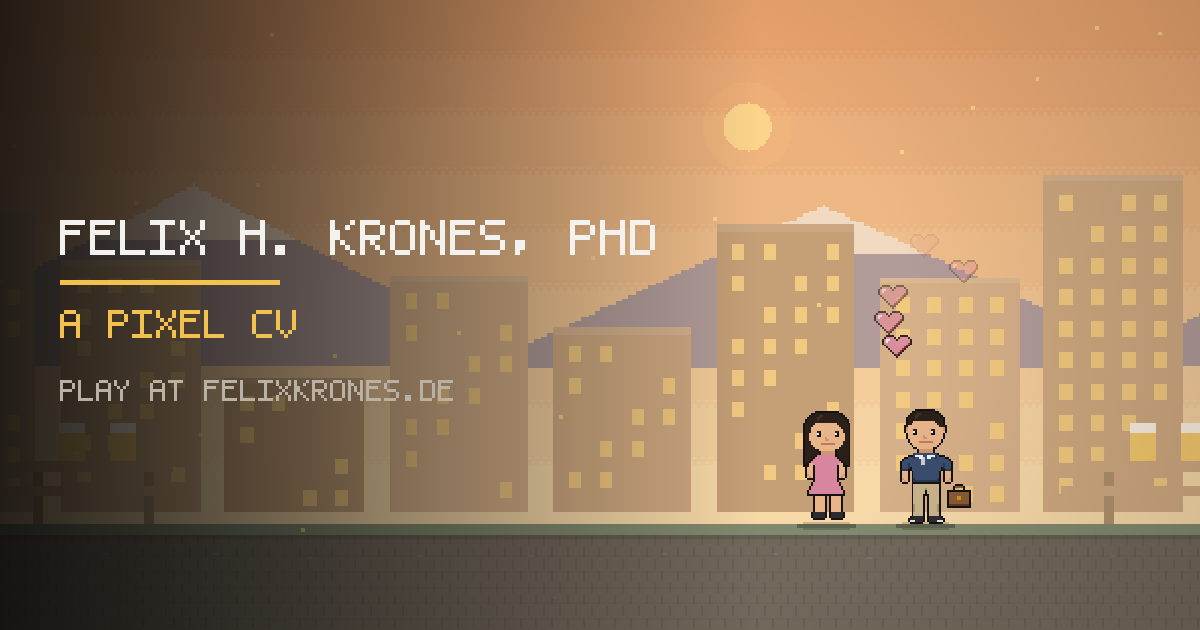
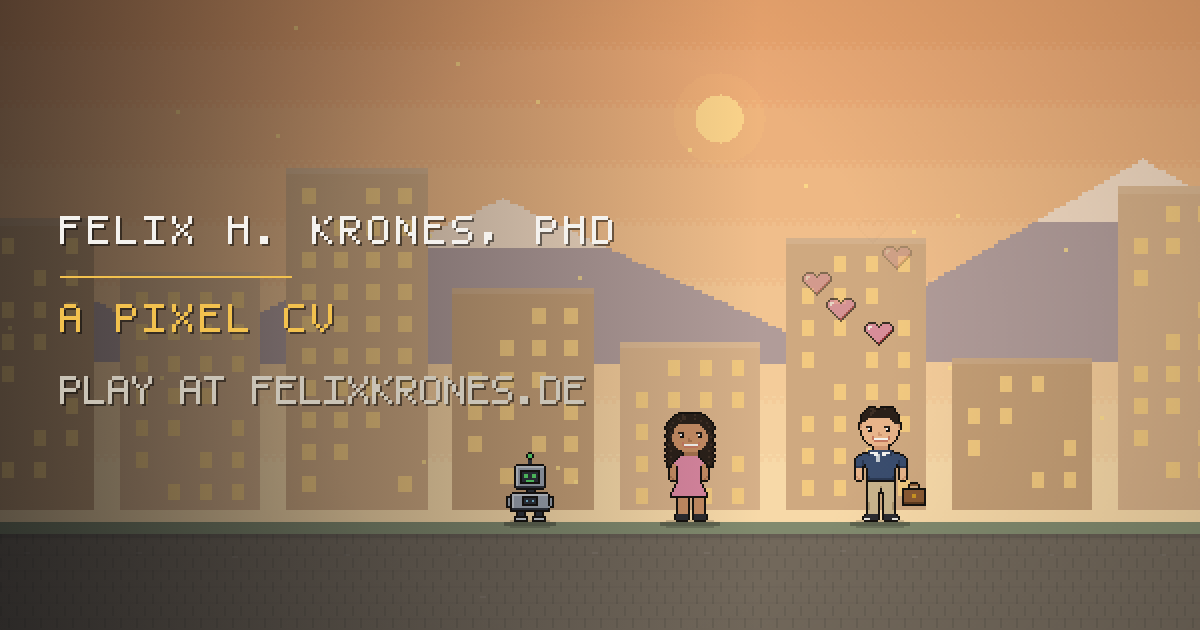
v32: Mastering AI robot in Karlsruhe (jump on it, then it follows as a pet), volunteering as own overview category, faces closer to the photos, new link preview

diff --git a/index.html b/index.html
@@ -20,7 +20,7 @@
 <title>Felix H. Krones, PhD</title>
 <style>
   :root{ --ink:#f0ece4; --dim:#8b8578; --rule:#2a2620; --ground:#12100d; --panel:#1a1713; --accent:#f2c14e;
-         --life:#d2574f; --edu:#f2c14e; --work:#9aa6b4; }
+         --life:#d2574f; --edu:#f2c14e; --work:#9aa6b4; --vol:#e0708f; }
   html,body{ height:100%; }
   body{ margin:0; background:var(--ground); color:var(--ink);
     font-family:"IBM Plex Mono",ui-monospace,SFMono-Regular,Menlo,Consolas,monospace; }
@@ -66,7 +66,7 @@
   #ov .out.locked p{ color:#4a463f; }
   #ov .out .chips{ display:flex; flex-wrap:wrap; gap:6px; }
   #ov .out .chips span{ font-size:11px; letter-spacing:.08em; text-transform:uppercase; color:#f2c14e; border:1px solid #5a4a22; padding:3px 8px; border-radius:3px; }
-  #ov th.life{ background:var(--life);} #ov th.edu{ background:var(--edu);} #ov th.work{ background:var(--work);}
+  #ov th.life{ background:var(--life);} #ov th.edu{ background:var(--edu);} #ov th.work{ background:var(--work);} #ov th.vol{ background:var(--vol);}
   #ov td{ padding:2px 5px; border-bottom:1px solid #1f1c17; vertical-align:middle; }
   #ov td.ic{ width:18px; } #ov td.ic canvas{ display:block; image-rendering:pixelated; width:14px; height:14px; }
   #ov td.yr{ width:78px; color:#b9b2a4; font-variant-numeric:tabular-nums; }
@@ -223,8 +223,8 @@ function draw(grid, ox, oy, flip){
 
 /* ---- Felix: 32 wide x 58 tall, outlined and shaded. Origin = top-left; feet on row 57. ---- */
 const HEAD = [
-  '...........NNNNNNNNNN...........',
-  '.........NNKKKKKKKKKKNN.........',
+  '..........NNNN..NNNNNNN.........',
+  '.........NKkkKNNKKkKKKKN........',
   '........NKKKkkKKKKKKKKKN........',
   '.......NKKKkkKKKKKKKKKKKN.......',
   '......NKKKKkKKKKKKKKKKKKKN......',
@@ -233,14 +233,14 @@ const HEAD = [
   '......NKKSSSSSSSSSSSSSKKKN......',
   '.....NKSSSSSSSSSSSSSSSSKKKN.....',
   '.....NDSSSSSSSSSSSSSSSSSSDN.....',
-  '.....NDSSSKKSSSSSSSKKSSSSDN.....',
+  '.....NDSSKKKSSSSSSKKKSSSSDN.....',
   '.....NSSSSWESSSSSSSWESSSSSN.....',
   '......NSSSEESSSSSSSEESSSSN......',
   '......NSSSSSSSSDSSSSSSSSSN......',
   '......NSSSSSSSSDDSSSSSSSSN......',
-  '.......NSSSSSSSSSSSSSSSSN.......',
-  '.......NSSSSSMMMMMMMSSSSN.......',
-  '........NSSSSSSSSSSSSSSN........',
+  '.......NSSSSMSSSSSSSMSSSN.......',
+  '.......NSSSSMWWWWWWWMSSSN.......',
+  '........NSSSSMMMMMMMSSSN........',
   '.........NSSSSSSSSSSSSN.........',
   '..........NNSSSSSSSSNN..........',
   '............NDDDDDDDN...........',
@@ -306,37 +306,38 @@ const LEGS_M = { STAND:pick(LEGS_STAND,L_M), L:pick(LEGS_L,L_M), R:pick(LEGS_R,L
 const LEGS_S = { STAND:pick(LEGS_STAND,L_S), L:pick(LEGS_L,L_S), R:pick(LEGS_R,L_S), JUMP:pick(LEGS_JUMP,L_S) };
 const SPRH = [58, 22+T_M.length+L_M.length, 22+T_S.length+L_S.length];   // adult 58, medium 44, small 38
 const PARTNER_H = 55;
+const P_SKIN = '#c58c63', P_SKIN_D = '#a5714d';   // her skin, a warm brown
 
 /* ---- Partner: long dark wavy hair, dress ---- */
 const P_HEAD = [
   '..........NNNNNNNNNNNN..........',
-  '........NNKKKKKKKKKKKKNN........',
+  '........NNKKkKKKKKkKKKNN........',
   '.......NKKKKkkKKKKKKKKKKN.......',
-  '......NKKKKkkKKKKKKKKKKKKN......',
-  '.....NKKKKKkKKKKKKKKKKKKKKN.....',
-  '.....NKKKKKKKKKKKKKKKKKKKKN.....',
+  '......NKKKkKkkKKKKkKKKKKKN......',
+  '.....NKKKKKkKKKKKKKKKkKKKKN.....',
+  '....NKKkKKKKKKKKKKKKKKKKkKKN....',
   '....NKKKKKSSSSSSSSSSSKKKKKKN....',
-  '....NKKKKSSSSSSSSSSSSSKKKKKN....',
-  '....NKKKSSSSSSSSSSSSSSSKKKKN....',
+  '...NKKkKKSSSSSSSSSSSSSKKKkKKN...',
+  '...NKKKKSSSSSSSSSSSSSSSKKKKKN...',
   '....NKKKSSSSSSSSSSSSSSSSKKKN....',
-  '....NKKKSSSKKSSSSSSSKKSSKKKN....',
-  '....NKKSSSSWESSSSSSSWESSSKKN....',
-  '....NKKSSSSEESSSSSSSEESSSKKN....',
+  '....NKkKSSKKKSSSSSSKKKSSKkKN....',
+  '...NKKKSSSSWESSSSSSSWESSSKKKN...',
+  '...NKKkSSSSEESSSSSSSEESSSKkKN...',
   '....NKKSSSSSSSSDSSSSSSSSSKKN....',
   '....NKKSSSSSSSSDDSSSSSSSSKKN....',
-  '....NKKKSSSSSSSSSSSSSSSSKKKN....',
-  '....NKKKSSSSSMMMMMMMSSSSKKKN....',
-  '....NKKKKSSSSSSSSSSSSSSKKKKN....',
-  '....NKKKKKSSSSSSSSSSSSKKKKKN....',
-  '....NKKKKKKNSSSSSSSSNKKKKKKN....',
+  '...NKKKKSSSSMSSSSSSSMSSSKKKKN...',
+  '...NKkKKSSSSMWWWWWWWMSSSKKkKN...',
+  '....NKKKKSSSSMMMMMMMSSSKKKKN....',
+  '...NKKKKKKSSSSSSSSSSSSKKKKKKN...',
+  '...NKKkKKKKNSSSSSSSSNKKKKkKKN...',
   '....NKKKKKKKNDDDDDDDNKKKKKKN....',
-  '....NKKKKKKKNDDDDDDDNKKKKKKN....'
+  '...NKKKKKKKKNDDDDDDDNKKKKKKKN...'
 ];
 const P_BODY = [
-  '....NKKKKKNqqqqqqqqqNKKKKKKN....',
+  '...NKKkKKKNqqqqqqqqqNKKKKkKKN...',
   '....NKKKKNqqqqqqqqqqqNKKKKKN....',
-  '....NKKKNqqqqqqqqqqqqqNKKKKN....',
-  '....NKKNqqqqqqqqqqqqqqqNKKKN....',
+  '...NKKKKNqqqqqqqqqqqqqNKKKKKN...',
+  '....NKkNqqqqqqqqqqqqqqqNKkKN....',
   '....NKNSSqqqqqqqqqqqqqSSNKKN....',
   '....NNNSSNqqqqqqqqqqqNSSNNNN....',
   '.....NSSSNqqqqqqqqqqqNSSSN......',
@@ -524,6 +525,43 @@ const WEAR = {
     ] },
 };
 
+/* ---- Robot: 24 wide, body rows 0..29 (antenna on top), legs drawn separately so it can walk. Feet on row 34. ----
+   E = eyes and mouth, V = antenna light: recoloured red while it hunts, green once mastered. */
+const ROBOT_BODY = [
+  '...........NN...........',
+  '..........NVVN..........',
+  '..........NVVN..........',
+  '...........NN...........',
+  '...........nn...........',
+  '...........nn...........',
+  '.....NNNNNNNNNNNNNN.....',
+  '....NhhhhhhhhhhhhhhN....',
+  '....NhgggggggggggggN....',
+  '....NhgNNNNNNNNNNggN....',
+  '....NhgNnnnnnnnnNggN....',
+  '....NhgNnEEnnEEnNggN....',
+  '....NhgNnEEnnEEnNggN....',
+  '....NhgNnnnnnnnnNggN....',
+  '....NhgNnnEEEEnnNggN....',
+  '....NhgNNNNNNNNNNggN....',
+  '....NhgggggggggggggN....',
+  '....NnnnnnnnnnnnnnnN....',
+  '.....NNNNNNNNNNNNNN.....',
+  '..........NnnnN.........',
+  '...NNNNNNNNNNNNNNNNNN...',
+  '..NhhhhhhhhhhhhhhhhhhN..',
+  'NNNhggggNNNNNNNNgggggNNN',
+  'NgNhggggNnnnnnnNgggggNgN',
+  'NgNhggggNncnncnNgggggNgN',
+  'NgNhggggNnnnnnnNgggggNgN',
+  'NgNhggggNNNNNNNNgggggNgN',
+  'NNNhggggggggggggggggggNN',
+  '..NnnnnnnnnnnnnnnnnnnN..',
+  '..NNNNNNNNNNNNNNNNNNNN..'
+];
+const ROBOT_LEG = ['.NnnnN.', '.NnnnN.', 'NNNNNNN', 'NhhhhhN', 'NNNNNNN'];
+const ROBOT_H = 29;        // head top above the feet (without the antenna): this is where Felix has to land
+
 const PLANE = [
   '........................................................................................................',
   '...............NNNNN....................................................................................',
@@ -616,6 +654,7 @@ const ICON = {
   trophy16: ['................','..NNNNNNNNNNNN..','.NYNYVYYYYYYNYN.','NY.NYVYYYYYYN.YN','NY.NYVYYYYYYN.YN','.NYNYYYYYYYyNYN.','..NNNYYYYYyNNN..','....NNYYYyNN....','......NYyN......','......NYyN......','.....NYYYyN.....','....NNNNNNNN....','....NaaaaaaN....','....NNNNNNNN....','................','................'],
   mortar16: ['................','................','.......NN.......','.....NNnnNN.....','...NNnnnnnnNN...','.NNnnnnnnnnnnNN.','NnnnnnnnnnnnnnnN','.NNnnnnnnnnnnNNY','...NNnnnnnnNN.Y.','....NnNNNNnN..Y.','....NnnnnnnN.YYY','....NnnnnnnN.YYY','.....NNNNNN.....','................','................','................'],
   briefcase16: ['................','................','......NNNN......','.....NaNNaN.....','..NNNNNNNNNNNN..','.NbbbbbbbbbbbbN.','.NHHHHHHHHHHHHN.','.NbbbbbYYbbbbbN.','.NaaaaaYYaaaaaN.','.NbbbbbbbbbbbbN.','.NbbbbbbbbbbbbN.','.NbbbbbbbbbbbbN.','.NaaaaaaaaaaaaN.','..NNNNNNNNNNNN..','................','................'],
+  robot16: ['.......NN.......','......NGGN......','.......NN.......','.......nn.......','..NNNNNNNNNNNN..','.NhhhhhhhhhhhhN.','.NhgNNNNNNNNggN.','.NhgNnGGnGGnNgN.','.NhgNnGGnGGnNgN.','.NhgNnnGGGGnNgN.','.NhgNNNNNNNNggN.','.NhgggggggggggN.','.NnnnnnnnnnnnnN.','..NNNNNNNNNNNN..','....NnnN.NnnN...','....NNNN.NNNN...'],
   heart16: ['................','................','..NNNN...NNNN...','.NqqqqN.NqqqqN..','NqWWqqqNqqqqqqN.','NqWqqqqqqqqqqqN.','NqqqqqqqqqqqqxN.','.NqqqqqqqqqqxN..','..NqqqqqqqqxN...','...NqqqqqqxN....','....NqqqqxN.....','.....NqqxN......','......NxN.......','.......N........','................','................'],
   star:   ['.....YY.....','.....YY.....','....YYYY....','YYYYYYYYYYYY','.YYYYYYYYYY.','..YYYYYYYY..','...YYYYYY...','..YYYYYYYY..','..YYY..YYY..','.YY......YY.','............','............']
 };
@@ -692,7 +731,7 @@ const LEVEL = [
   { id:'f_ral', kind:'flight', len:820,  route:'FRA > RDU', sub:'EXCHANGE SEMESTER' },
   { id:'ral',   kind:'ground', len:820,  theme:'raleigh',   name:'RALEIGH, USA',   years:'2015-2015',      sub:'NC STATE UNIVERSITY', map:'ral' },
   { id:'f_bk',  kind:'flight', len:620,  route:'RDU > FRA', sub:'BACK TO KARLSRUHE' },
-  { id:'ka2',   kind:'ground', len:1950, theme:'karlsruhe', name:'KARLSRUHE',      years:'2016-2019', sub:'', map:'ka' },
+  { id:'ka2',   kind:'ground', len:2350, theme:'karlsruhe', name:'KARLSRUHE',      years:'2016-2019', sub:'', map:'ka' },
   { id:'zh',    kind:'ground', len:1350, theme:'zurich',    name:'ZURICH',         years:'2019-2021', sub:'', map:'zh' },
   { id:'f_mck', kind:'flight', len:2200, route:'MCKINSEY CLIENT WORK', sub:'', mck:true },
   { id:'ox',    kind:'ground', len:2300, theme:'oxford',    name:'OXFORD',         years:'2021-2023', sub:'', map:'ox' },
@@ -752,7 +791,10 @@ const HELPS = [
   { seg:'zh2',   off:450 , year:'2025-',     tag:'DEPUTY DISTRICT CHAIRMAN', role:'Deputy district chairman', desc:'', org:'Political party group', loc:'Neckar-Odenwald-Kreis', prop:'lectern' },
   { seg:'muc',   off:700,  year:'2026-',     tag:'START-UP MENTOR',  role:'Mentor to start-ups', desc:'', org:'Hack Nation', loc:'', prop:'laptop' }
 ];
-HELPS.forEach((h,i)=>{ h.i = i; h.x = wx(h.seg, Math.round(h.off*UK)); h.t = 'work'; h.k = 'volunteer'; });
+HELPS.forEach((h,i)=>{ h.i = i; h.x = wx(h.seg, Math.round(h.off*UK)); h.t = 'vol'; h.k = 'volunteer'; });
+/* A robot waits at the end of the Karlsruhe years (2018). It hunts Felix; he has to jump on it. Once mastered, it follows him like a pet. */
+const ROBOT = { year:'2018-', tag:'MASTERING AI', role:'AI expert', desc:'Multimodal AI, LLMs, data', org:'Oxford, QuantumBlack, Waterland', loc:'', icon:'robot16', t:'work', k:'robot',
+  home: wx('ka2', Math.round(2150*UK)), hunt:250, walk:36, charge:90 };
 /* Story moments without a box: the return to QuantumBlack during the DPhil (not a separate overview row) */
 const EVENTS = [
   { seg:'ka1', off:0, wear:['student','beard'] },       // uniform off as soon as the airbase is left, and from now on a beard
@@ -793,12 +835,13 @@ function reset(){
     lastSeg:null, manual:false,
     fly:[], sparks:[], pops:[], bubbles:[],
     started:false, auto:false, startT:0,
-    intro:null, btnGlow:0, helpPop:null, allUnlocked:false
+    intro:null, btnGlow:0, helpPop:null, allUnlocked:false, kb:null
   };
   BOXES.forEach(b=>{ b.hit=false; b.bump=0; b.open=0; });
   MCK_FLAGS.forEach(f=>f.got=false);
   HELPS.forEach(h=>h.got=false);
   EVENTS.forEach(e=>e.done=false);
+  Object.assign(ROBOT, { got:false, x:ROBOT.home, vx:0, face:-1, state:'idle', t:0, flash:0, squash:0, wait:0, bumps:0 });
 }
 reset();
 const SH = () => SPRH[S.kid];
@@ -877,10 +920,15 @@ function step(dt){
   S.flyBlend = clamp(S.flyBlend + (wantFly ? dt*2.2 : -dt*2.2), 0, 1);
 
   /* horizontal */
-  const fast = (keys.ShiftLeft || keys.ShiftRight) ? (S.partner ? 2.8 : 1.9) : 1;   // together even faster
+  let fast = (keys.ShiftLeft || keys.ShiftRight) ? (S.partner ? 2.8 : 1.9) : 1;   // together even faster
+  if (!S.manual && !ROBOT.got && Math.abs(ROBOT.x - S.x) < 600) fast = 1;         // playing by itself: walk when the robot is near, so the jump lands
   const speed = (wantFly ? (seg.id==='f_mck' ? FLYSPD_MCK : FLYSPD) : SPD) * fast;   // Shift also speeds up the plane
   S.fast = fast;
-  if (S.ended){
+  const END_X = WORLD_END - 280;
+  if (S.kb){
+    /* pushed back by the robot: no control for a moment */
+    S.kb.t -= dt; S.x += S.kb.vx*dt; if (S.kb.t <= 0) S.kb = null;
+  } else if (S.ended){
     /* the end: both stroll to the right, into the bright light */
     S.x += 92*dt; S.facing = 1;
   } else if (S.manual){
@@ -900,10 +948,11 @@ function step(dt){
         const d = b.x + 16 - S.x, lead = leadFor(b.y);
         if (lead !== null && d > 0 && d <= lead){ S.vy = JUMPV; S.onGround = false; sfx('jump'); break; }
       }
+      if (S.onGround) robotAutoJump(speed, END_X);
     }
   }
   /* the end: only with all achievements; otherwise a warning and the way is blocked */
-  const END_X = WORLD_END - 280, complete = S.stars >= TOTAL();
+  const complete = S.stars >= TOTAL();
   if (!S.ended && S.x >= END_X){
     if (complete){ S.ended = true; sfx('flag'); }
     else { if (!S.warn) sfx('jump'); S.x = END_X; }
@@ -945,6 +994,7 @@ function step(dt){
       onHit(b);
     }
   }
+  stepRobot(dt);
 
   /* flight stars */
   for (const fl of MCK_FLAGS){
@@ -1039,6 +1089,54 @@ function onHit(b){
   if (b.fx==='mck_off') S.mck = false;
 }
 function camX(){ return clamp(S.x - 200, 0, WORLD_END - W); }
+
+/* ---- the robot: idle at home, charges when Felix comes near, pushes him back on contact, mastered when he lands on it ---- */
+const ROBOT_TLAND = (() => { const apex = JUMPV*JUMPV/(2*GRAV); return -JUMPV/GRAV + Math.sqrt(2*Math.max(0, apex - ROBOT_H)/GRAV); })();   // s from take-off to landing on its head
+function robotAutoJump(speed, endX){
+  const rb = ROBOT; if (rb.got || Math.abs(rb.x - S.x) > 600) return;
+  const felixAt = Math.min(S.x + speed*ROBOT_TLAND, endX), robotAt = rb.x + rb.vx*ROBOT_TLAND, gap = robotAt - felixAt;
+  const closing = rb.vx - (felixAt > S.x + 1 ? speed : 0) < 0;      // is the gap shrinking or growing?
+  if (gap >= (closing ? -16 : -7) && gap <= (closing ? 7 : 16)){ S.vy = JUMPV; S.onGround = false; sfx('jump'); }
+}
+function stepRobot(dt){
+  const rb = ROBOT; rb.t += dt; rb.flash = Math.max(0, rb.flash - dt); rb.squash = Math.max(0, rb.squash - dt*2.8);
+  if (rb.got){
+    /* mastered: it follows him like a pet (behind the partner once she is there); on the plane it sits at the front */
+    const x0 = rb.x;
+    if (S.flyBlend > 0.3) rb.x = S.x + 30*S.facing;
+    else { const want = S.x - (S.partner ? 74 : 40)*S.facing; rb.x += (want - rb.x)*Math.min(1, dt*8); rb.x = clamp(rb.x, want - 30, want + 30); }
+    rb.vx = (rb.x - x0)/Math.max(dt, 1e-4); rb.face = S.facing;
+    return;
+  }
+  const d = S.x - rb.x, dir = d < 0 ? -1 : 1, near = Math.abs(d) < rb.hunt;
+  if (rb.state === 'retreat'){
+    /* after a bump it backs away from Felix for a moment (but not further than 200 px from home), then hunts again */
+    rb.wait -= dt; rb.vx = Math.abs(rb.x - dir*rb.walk*dt - rb.home) < 200 ? -dir*rb.walk : 0; rb.face = dir;
+    if (rb.wait <= 0) rb.state = 'idle';
+  } else if (near){ rb.state = 'charge'; rb.vx = dir*rb.charge; rb.face = dir; }
+  else if (rb.state !== 'charge' || Math.abs(d) > rb.hunt + 140){
+    rb.state = 'idle'; rb.vx = Math.abs(rb.home - rb.x) > 3 ? Math.sign(rb.home - rb.x)*rb.walk : 0; rb.face = rb.vx ? Math.sign(rb.vx) : dir;
+  }
+  rb.x += rb.vx*dt;
+  /* contact */
+  const rTop = GROUND - ROBOT_H;
+  if (S.flyBlend === 0 && Math.abs(S.x - rb.x) < 22){
+    if (S.vy > 0 && S.y <= rTop + 18 && S.y >= rTop - 12){
+      /* landed on it: mastered */
+      rb.got = true; rb.state = 'tamed'; rb.vx = 0; rb.squash = 1; rb.tamedAt = S.t; rb.face = S.facing;
+      S.y = rTop; S.vy = JUMPV*0.55; S.onGround = false;
+      S.stars++; S.btnGlow = 1; refreshPanel(); sfx('star');
+      popSparks(rb.x, rTop, '#7fc0dd', 14, 120);
+      S.helpPop = { h:{ lines:[rb.tag, 'AI EXPERT', rb.year] }, t:0, col:'#7fc0dd', dur:2.6 };
+      S.fly.push({ icon:rb.icon, x:rb.x - 18, y:rTop - 34, t:0, phase:0, sc:3, fast:false, target: () => [W - 40 + camX(), 6], arrive: () => { S.btnGlow = 1; refreshPanel(); } });
+    } else if (!S.kb && S.y > rTop + 18){
+      /* walked into it: pushed back, the robot backs off for a moment */
+      S.kb = { t:0.45, vx:dir*300 }; if (S.onGround){ S.vy = -190; S.onGround = false; }
+      rb.flash = 0.5; rb.state = 'retreat'; rb.wait = 1.6; rb.bumps++; sfx('buzz');
+      S.helpPop = { h:{ lines:['BEEP', 'JUMP ON IT'] }, t:0, col:'#e8746b', dur:1.8 };
+    }
+  }
+}
 </script>
 <script>
 /* =====================================================================
@@ -1647,7 +1745,7 @@ const PROPS = {
   germ:  [[40,(x,y,t)=>hangar(x,y,150)],[230,(x,y,t)=>controlTower(x,y)],[290,(x,y,t)=>deFlagPole(x,y,t)],[340,(x,y,t)=>jetParked(x,y)],[470,(x,y,t)=>ortsschild(x,y,'GERMERSHEIM')],[570,(x,y,t)=>windsock(x,y,t)],[620,(x,y,t)=>barracks(x,y)],[830,(x,y,t)=>fortressGate(x,y)]],
   ka1:   [[40,(x,y,t)=>schloss(x,y)],[210,(x,y,t)=>ortsschild(x,y,'KARLSRUHE')],[300,(x,y,t)=>tram(x,y,t)],[450,(x,y,t)=>pyramid(x,y)],[700,(x,y,t)=>brickHall(x,y,120,50,'KIT')]],
   ral:   [[60,(x,y,t)=>brickHall(x,y,110,54,'NC STATE')],[240,(x,y,t)=>belltower(x,y)],[330,(x,y,t)=>usFlag(x,y,t)],[430,(x,y,t)=>ortsschild(x,y,'RALEIGH','us')],[520,(x,y,t)=>pickup(x,y)],[620,(x,y,t)=>brickHall(x,y,100,60)]],
-  ka2:   [[40,(x,y,t)=>brickHall(x,y,120,50,'KIT')],[175,(x,y,t)=>ortsschild(x,y,'KARLSRUHE')],[260,(x,y,t)=>tram(x,y,t)],[580,(x,y,t)=>halfTimbered(x,y,60,44,'#6f4a3a')],[860,(x,y,t)=>schloss(x,y)],[1050,(x,y,t)=>pylon(x,y)],[1120,(x,y,t)=>windTurbine(x,y,t)],[1180,(x,y,t)=>carFactory(x,y)],[1360,(x,y,t)=>lectureHall(x,y,'DHBW')],[1690,(x,y,t)=>smartHouse(x,y)],[1850,(x,y,t)=>tram(x,y,t)]],
+  ka2:   [[40,(x,y,t)=>brickHall(x,y,120,50,'KIT')],[175,(x,y,t)=>ortsschild(x,y,'KARLSRUHE')],[260,(x,y,t)=>tram(x,y,t)],[580,(x,y,t)=>halfTimbered(x,y,60,44,'#6f4a3a')],[860,(x,y,t)=>schloss(x,y)],[1050,(x,y,t)=>pylon(x,y)],[1120,(x,y,t)=>windTurbine(x,y,t)],[1180,(x,y,t)=>carFactory(x,y)],[1360,(x,y,t)=>lectureHall(x,y,'DHBW')],[1690,(x,y,t)=>smartHouse(x,y)],[1850,(x,y,t)=>tram(x,y,t)],[1975,(x,y,t)=>halfTimbered(x,y,56,38,'#6f4a3a')],[2240,(x,y,t)=>brickHall(x,y,100,46)]],
   zh:    [[60,(x,y,t)=>ethBuilding(x,y-16)],[225,(x,y,t)=>ortsschild(x,y,'ZÜRICH','ch')],[420,(x,y,t)=>grossmunster(x,y-16)],[640,(x,y,t)=>tram(x,y,t)],[880,(x,y,t)=>primeTower(x,y)],[1050,(x,y,t)=>cityRowLocal(x,y)]],
   it:    [[60,(x,y,t)=>duomo(x,y)],[300,(x,y,t)=>vespa(x,y)],[480,(x,y,t)=>halfTimbered(x,y,60,44,'#c9432f')]],
   fi:    [[80,(x,y,t)=>saunaHut(x,y)],[420,(x,y,t)=>saunaHut(x,y)]],
@@ -1769,10 +1867,28 @@ function drawPartner(px, feetY){
   const f = Math.floor(S.partner.t*9)%4, bob = (f===1||f===3) ? -2 : 0;
   shadow(px, feetY, 30);
   ctx.save(); ctx.translate(Math.round(px), Math.round(feetY - PARTNER_H + bob)); ctx.translate(-16, 0);
-  draw(P_HEAD, 0, 0); draw(P_BODY, 0, 22);
+  const skin = (x, y, ch) => ch==='S' ? P_SKIN : P_SKIN_D;
+  drawRemap(P_HEAD, 0, 0, 'SD', skin); drawRemap(P_BODY, 0, 22, 'SD', skin);
   ctx.restore();
 }
 
+function drawRobot(px, t, feetY){
+  const rb = ROBOT, walking = feetY === GROUND && Math.abs(rb.vx) > 4, f = Math.floor(t*8)%2;
+  const sq = rb.squash > 0 ? 1 - 0.38*Math.sin(rb.squash*Math.PI) : 1;    // flattens for a moment when Felix lands on it
+  if (feetY === GROUND) shadow(px, GROUND, 26);
+  ctx.save(); ctx.translate(Math.round(px), Math.round(feetY));
+  if (sq !== 1) ctx.scale(1, sq);
+  if (rb.face < 0) ctx.scale(-1, 1);
+  ctx.translate(-12, -35);
+  const eye = rb.got ? '#5ad86a' : rb.flash > 0 ? '#ffffff' : (Math.floor(t*6)%4 ? '#e0463c' : '#8b1e2d');
+  const ant = rb.got ? '#5ad86a' : (Math.floor(t*4)%2 ? '#e0463c' : '#5a1a14');
+  drawRemap(ROBOT_BODY, 0, 0, 'EV', (x, y, ch) => ch==='E' ? eye : ant);
+  draw(ROBOT_LEG, 4, 30 - (walking && f===0 ? 2 : 0)); draw(ROBOT_LEG, 13, 30 - (walking && f===1 ? 2 : 0));
+  ctx.restore();
+  if (rb.got && S.t - rb.tamedAt < 2.6){                                   // a heart rises: it is on his side now
+    const k = (S.t - rb.tamedAt)/2.6; ctx.globalAlpha = 1 - k; drawIcon(ICON.heart16, Math.round(px - 8), Math.round(feetY - 52 - k*40), 1); ctx.globalAlpha = 1;
+  }
+}
 function panelBox(x, y, w, h, col='rgba(10,12,17,.8)'){ r(x, y, w, h, col); r(x, y, w, 1, 'rgba(255,255,255,.08)'); }
 
 function render(){
@@ -1806,6 +1922,7 @@ function render(){
   for (const h of HELPS){ const sx = h.x - cam; if (sx > -60 && sx < W+60) drawHelp(h, sx, t); }
   if (S.outlook > 0) brightLight(S.outlook, t);
   if (S.outlook > 0) signpost(WORLD_END - 150 - cam, S.outlook);
+  { const sx = ROBOT.x - cam; if (sx > -40 && sx < W + 40){ ctx.globalAlpha = fadeRight(sx); drawRobot(sx, t, ROBOT.got && S.flyBlend > 0 ? S.y : GROUND); ctx.globalAlpha = 1; } }
   if (S.partner){ ctx.globalAlpha = fadeRight(S.partner.x - cam); drawPartner(S.partner.x - cam, S.flyBlend > 0 ? S.y : GROUND); ctx.globalAlpha = 1; }
 
   /* stork intro */
@@ -2037,7 +2154,7 @@ function drawScenery(cam, t){
 }
 
 /* ---------- HUD ---------- */
-const TOTAL = () => BOXES.length + HELPS.length;
+const TOTAL = () => BOXES.length + HELPS.length + 1;   // boxes, volunteering, and the robot
 const TOUCH = matchMedia('(pointer:coarse)').matches;
 function drawHUD(seg, cam){
   /* achievements button, top right, small */
@@ -2144,7 +2261,7 @@ function refreshPanel(){
     .sort((a,c)=> yStart(a[0]) - yStart(c[0]) || a[1] - c[1]).map(x=>x[0]);
   ovBody.innerHTML = `<div class="cols">
     <div class="col">${table([['life','Life',[['',by('life')]]], ['edu','Education',[['Timeline',by('edu','station')],['Degrees and honours',degHon]]]])}</div>
-    <div class="col">${table([['work','Work',[['Positions',by('work','station')],['Volunteering',HELPS]]]])}</div></div>`;
+    <div class="col">${table([['work','Work',[['Positions',by('work','station')],['Expertise',[ROBOT]]]], ['vol','Volunteering',[['',HELPS]]]])}</div></div>`;
 }
 function openPanel(open){
   panelOpen = open; ov.classList.toggle('open', open);
@@ -2157,6 +2274,7 @@ document.getElementById('ovAll').onclick = ()=>{
   for (const b of BOXES){ if (b.hit) continue; b.hit = true; b.open = 1; S.stars++; if (b.wear) wear(b.wear); }
   for (const fl of MCK_FLAGS){ if (!fl.got){ fl.got = true; S.flagsGot.push(fl.c); } }
   for (const h of HELPS){ if (!h.got){ h.got = true; S.stars++; } }
+  if (!ROBOT.got){ ROBOT.got = true; ROBOT.state = 'tamed'; ROBOT.vx = 0; ROBOT.tamedAt = -10; ROBOT.x = S.x - 40; S.stars++; }
   S.kid = 0; S.visible = true; S.fly = []; S.allUnlocked = true; userGesture(); sfx('flag'); refreshPanel();
 };
 
@@ -2213,6 +2331,7 @@ function sfx(k){
   else if (k==='star'){ tone(1046,.08,'triangle',.07); tone(1318,.1,'triangle',.07,.08); tone(1568,.16,'triangle',.07,.16); }
   else if (k==='wear'){ tone(523,.06,'triangle',.06); tone(784,.12,'triangle',.06,.06); }
   else if (k==='flag'){ [523,659,784,1046].forEach((f,i)=>tone(f,.18,'square',.05,i*.12)); }
+  else if (k==='buzz'){ tone(150,.16,'sawtooth',.04); tone(110,.14,'square',.03,.05); }
 }
 const N = n => 440*Math.pow(2,(n-69)/12);
 const LEAD = [72,76,79,76, 69,72,76,72, 65,69,72,69, 67,71,74,71, 72,76,79,84, 83,79,76,74, 77,76,74,72, 74,67,0,0];
